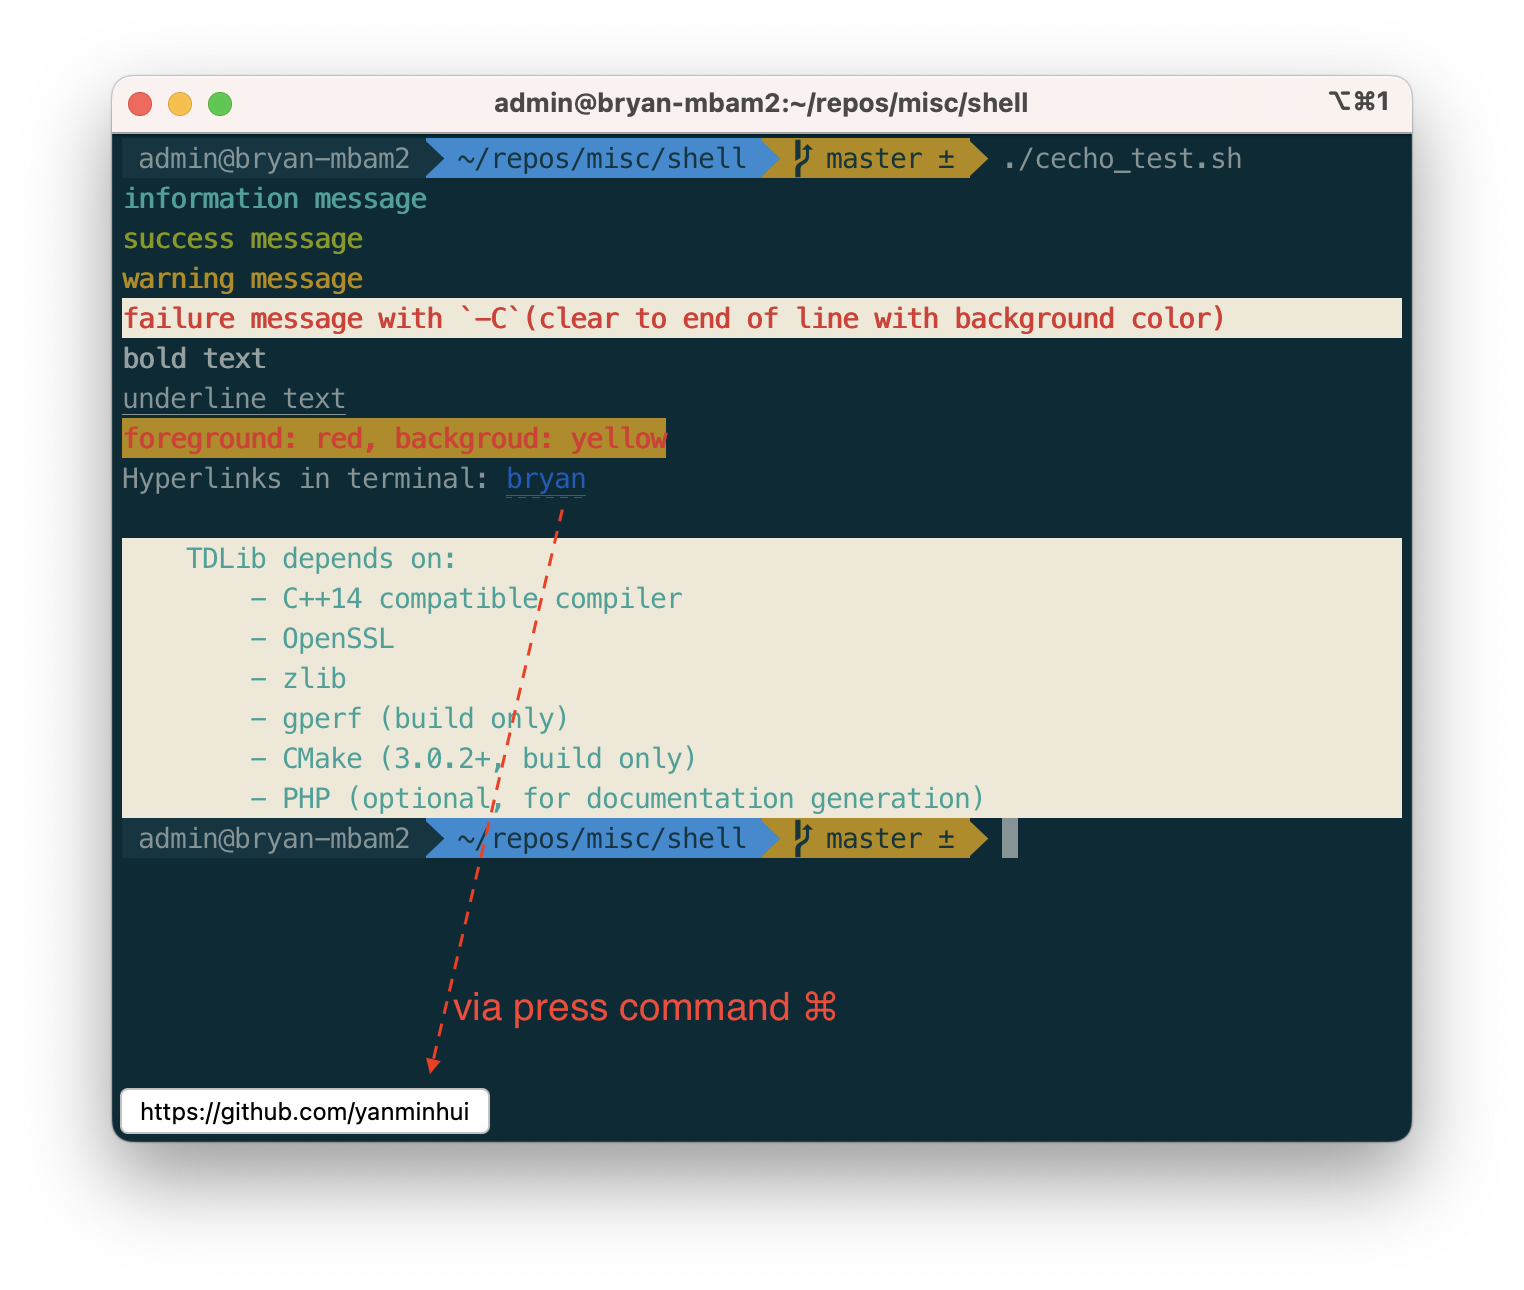
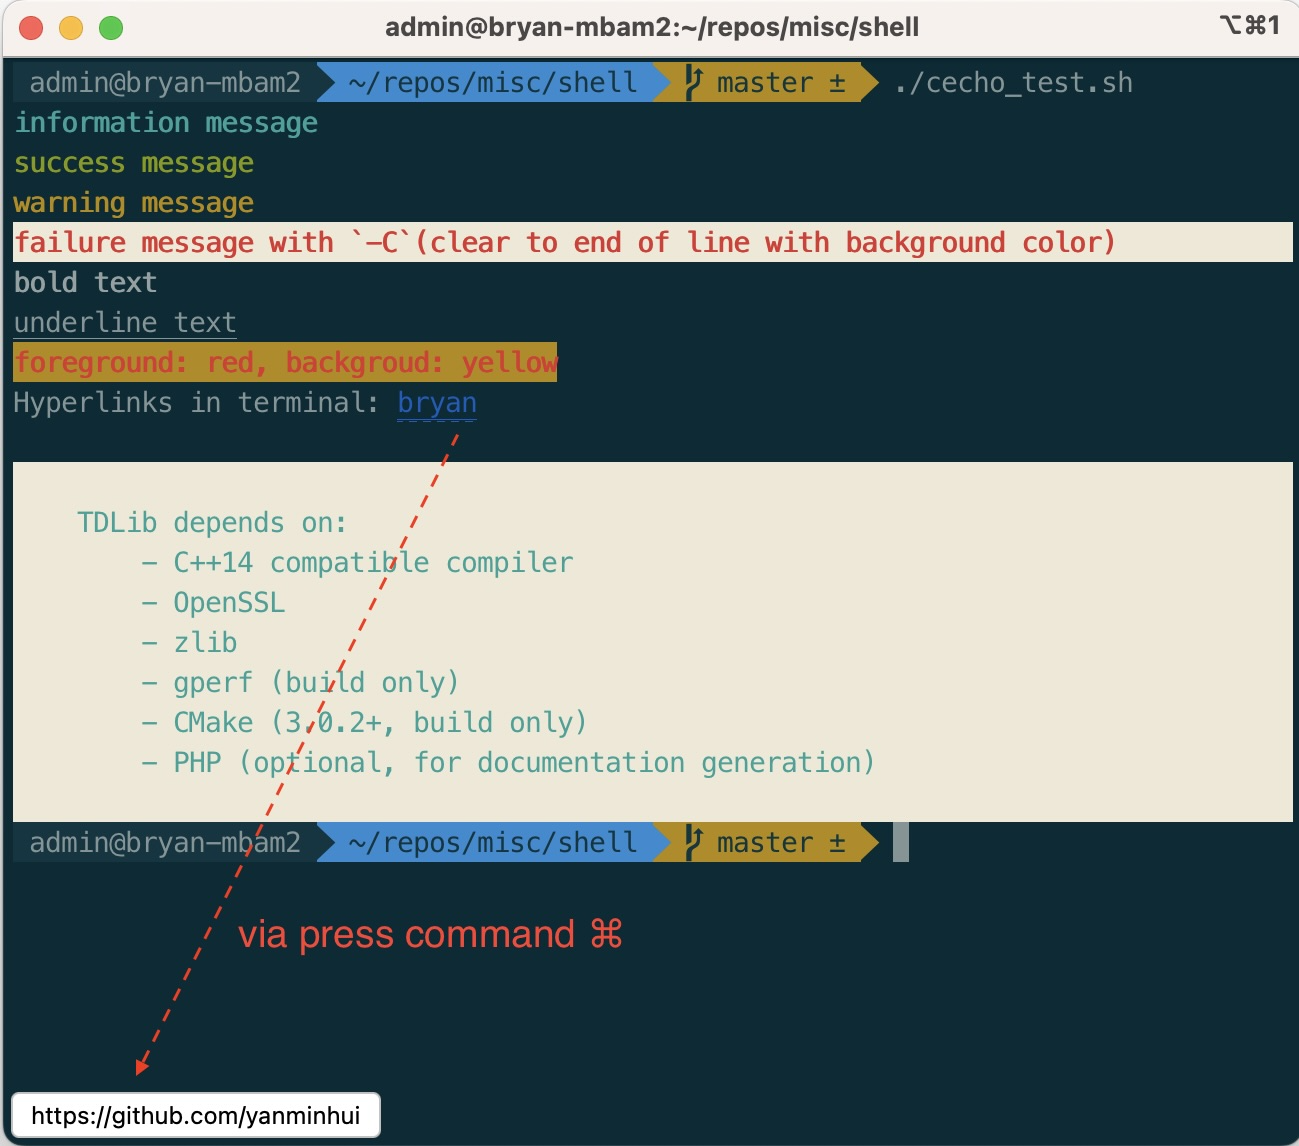
cecho: support text frame

diff --git a/_posts/githubs/2023-04-21-cecho.md b/_posts/githubs/2023-04-21-cecho.md
@@ -15,7 +15,7 @@ tags: ['GitHub仓库', 'shell']
 
 ```console
 Usage:
-    cecho [-nISWEBUC] [-fb color] [-u url] [arg ...]
+    cecho [-nISWEBUC] [-fb color] [-u url] [-H|-h cols] [-V|-v cols] [arg ...]
 
 Options:
     -n	        do not append a newline
@@ -29,12 +29,16 @@ Options:
     -f <color>  set foreground color
     -b <color>  set background color
     -u <url>    set hyperlink url
+    -H | -h <cols>  draw text frame horizontal line
+    -V | -v <cols>  draw text surrounded by text frame
 
 Color:
     black red green yellow blue magenta cyan white
 ```
 
 ## Example
+
+### Colored Text
 
 ```bash
 cecho -I -- information message
@@ -46,11 +50,12 @@ cecho -B -- bold text
 cecho -U -- underline text
 cecho -B -f red -b yellow -- foreground: red, backgroud: yellow
 
-cecho  "Hyperlinks in terminal: $(cecho -n -u https://github.com/yanminhui bryan)"
+cecho -n "Hyperlinks in terminal: "; cecho -u https://github.com/yanminhui bryan
 
-cecho # blank row
+cecho -- # blank row
 CMAKE_VER=3.0.2
 cecho -C -f cyan -b white << _EOF_
+
     TDLib depends on:
         - C++14 compatible compiler
         - OpenSSL
@@ -58,7 +63,33 @@ cecho -C -f cyan -b white << _EOF_
         - gperf (build only)
         - CMake (${CMAKE_VER}+, build only)
         - PHP (optional, for documentation generation)
+
 _EOF_
 ```
 
-![cecho](https://raw.github.com/yanminhui/yanminhui.github.io/master/assets/img/cecho.png)
+![cecho](https://yanminhui.github.io/assets/img/cecho.png)
+
+### Text Frame
+
+```bash
+declare -r CMAKE_VER=3.0.2
+# text frame top line
+cecho -H -I -b white
+while IFS= read -r CURR_LINE; do
+    cecho -V -I -b white -- "$CURR_LINE"
+done <<- _EOF_
+
+    $(hyperlink https://github.com/tdlib/td TDLib) depends on:
+        - $(setaf warn)C++14 compatible compiler$(setaf info)
+        - OpenSSL
+        - zlib
+        - $(setaf red)gperf (build only)$(setaf info)
+        - CMake (${CMAKE_VER}+, build only)
+        - PHP (optional, for documentation generation)
+
+_EOF_
+# text frame bottomline
+cecho -H -I -b white
+```
+
+![textframe](https://yanminhui.github.io/assets/img/textframe.png)
